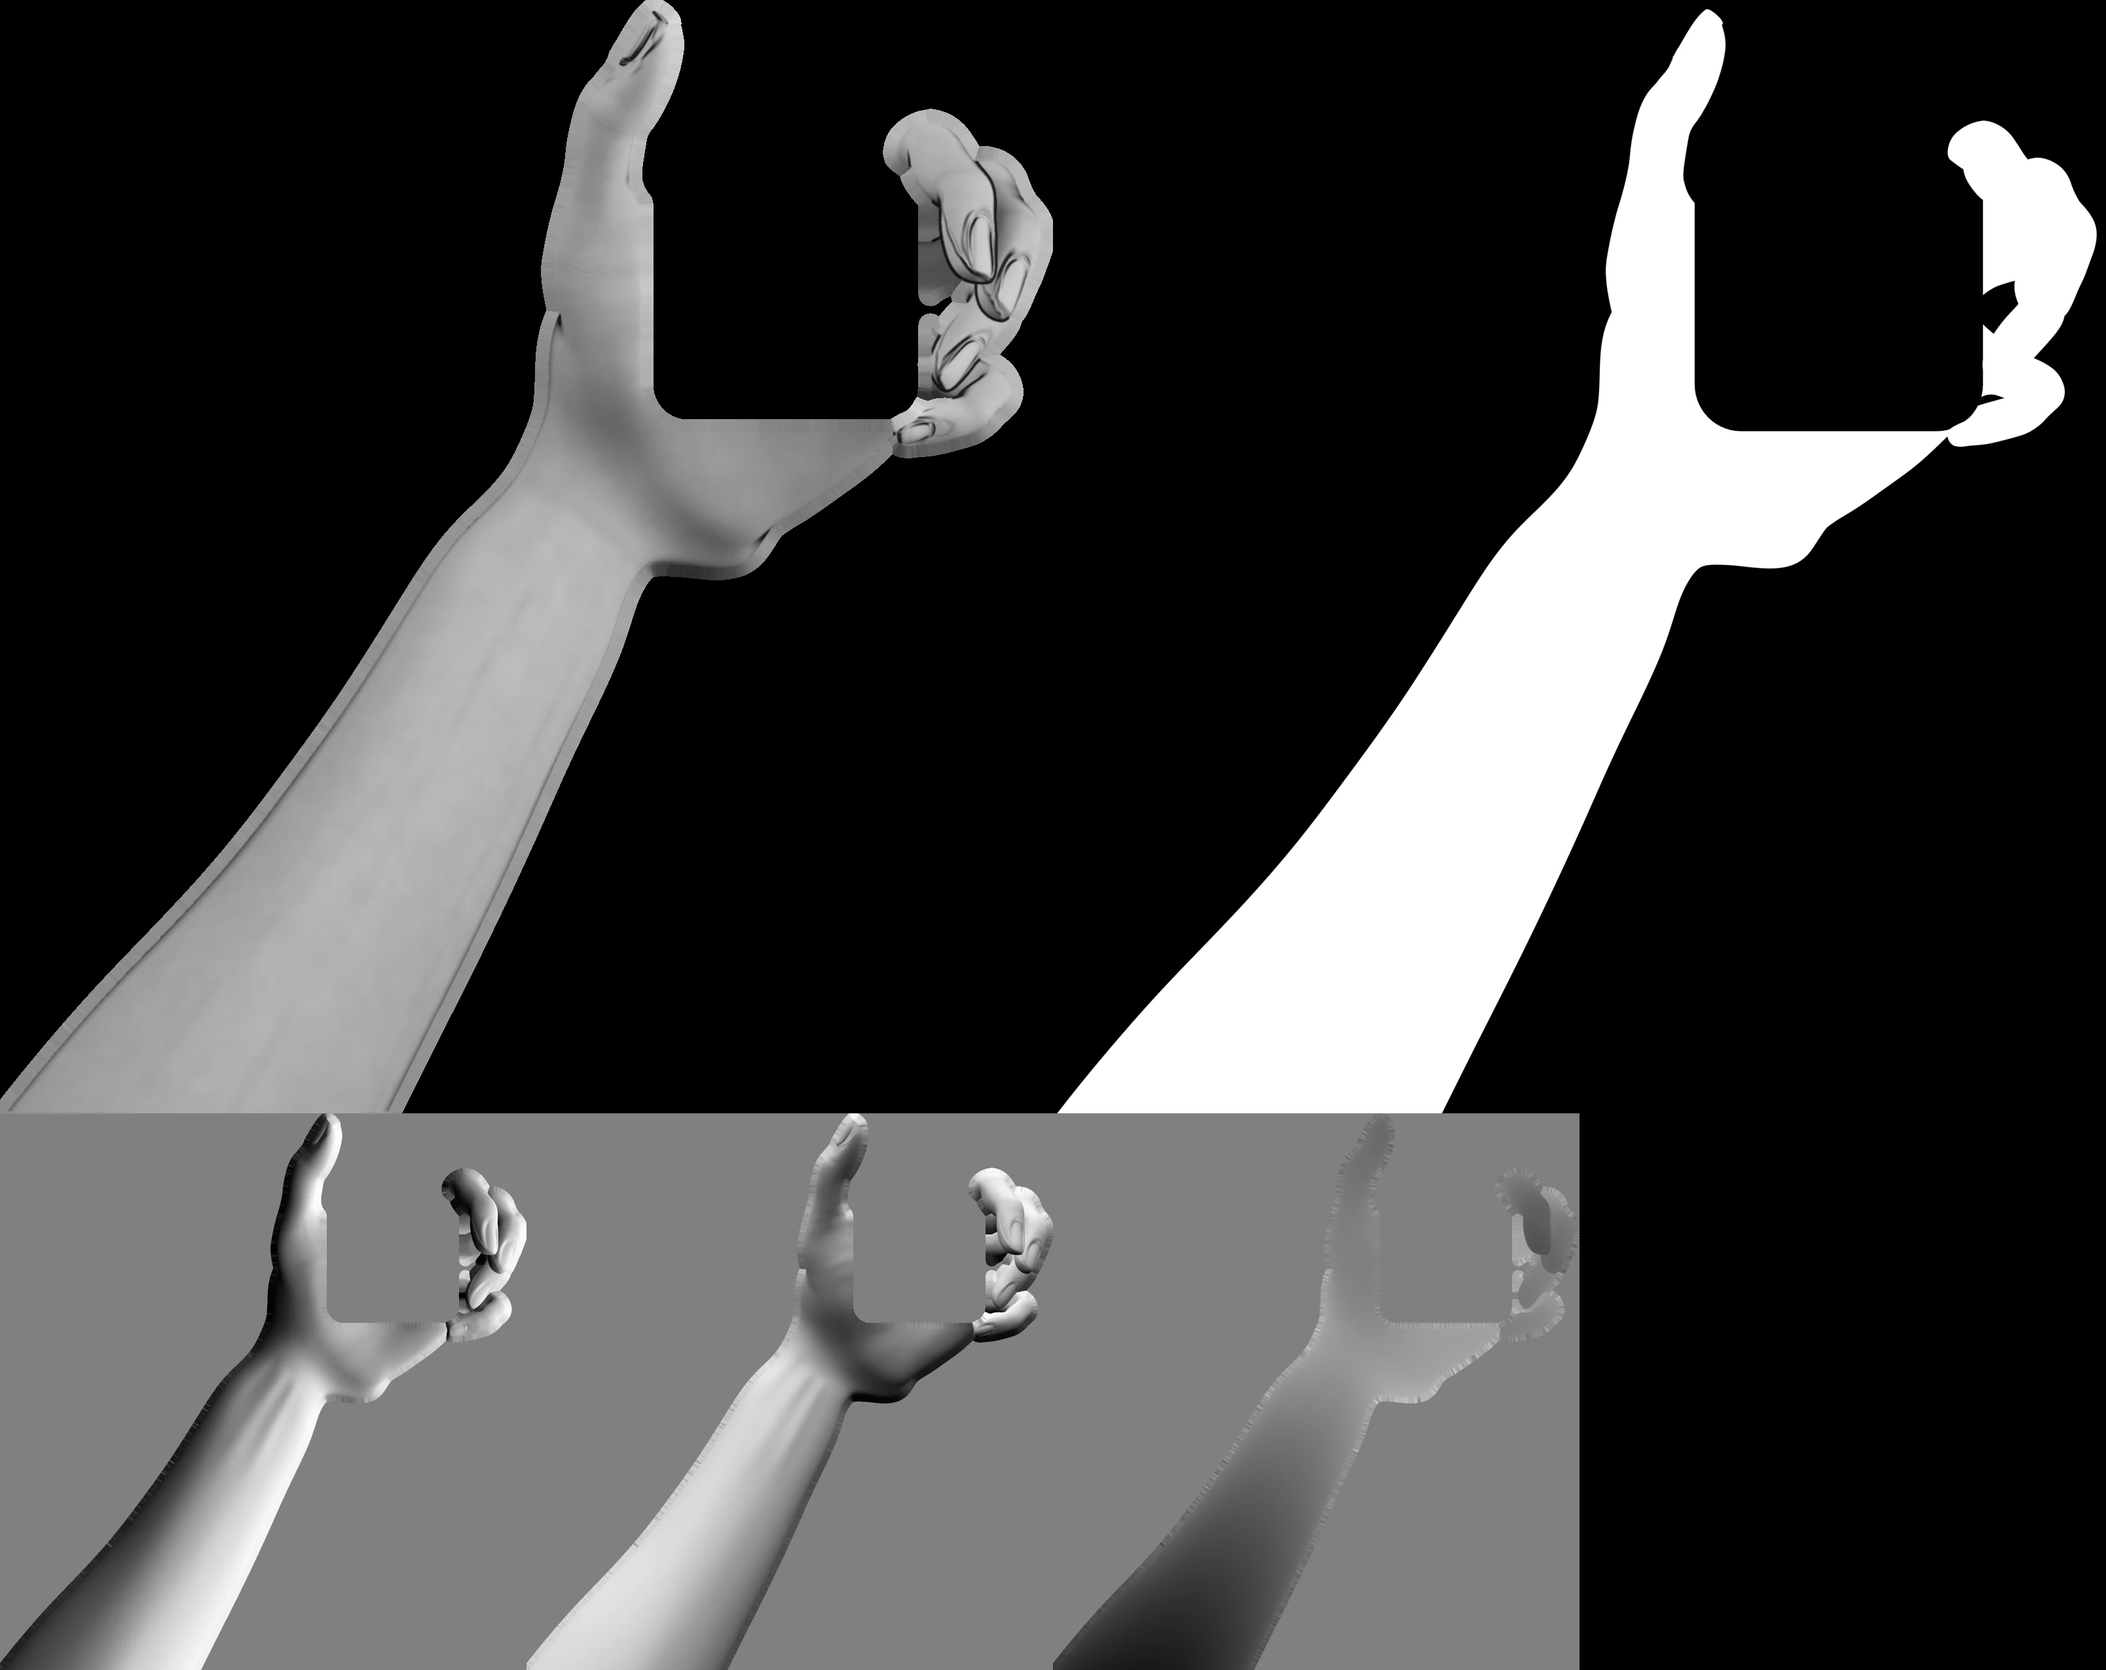
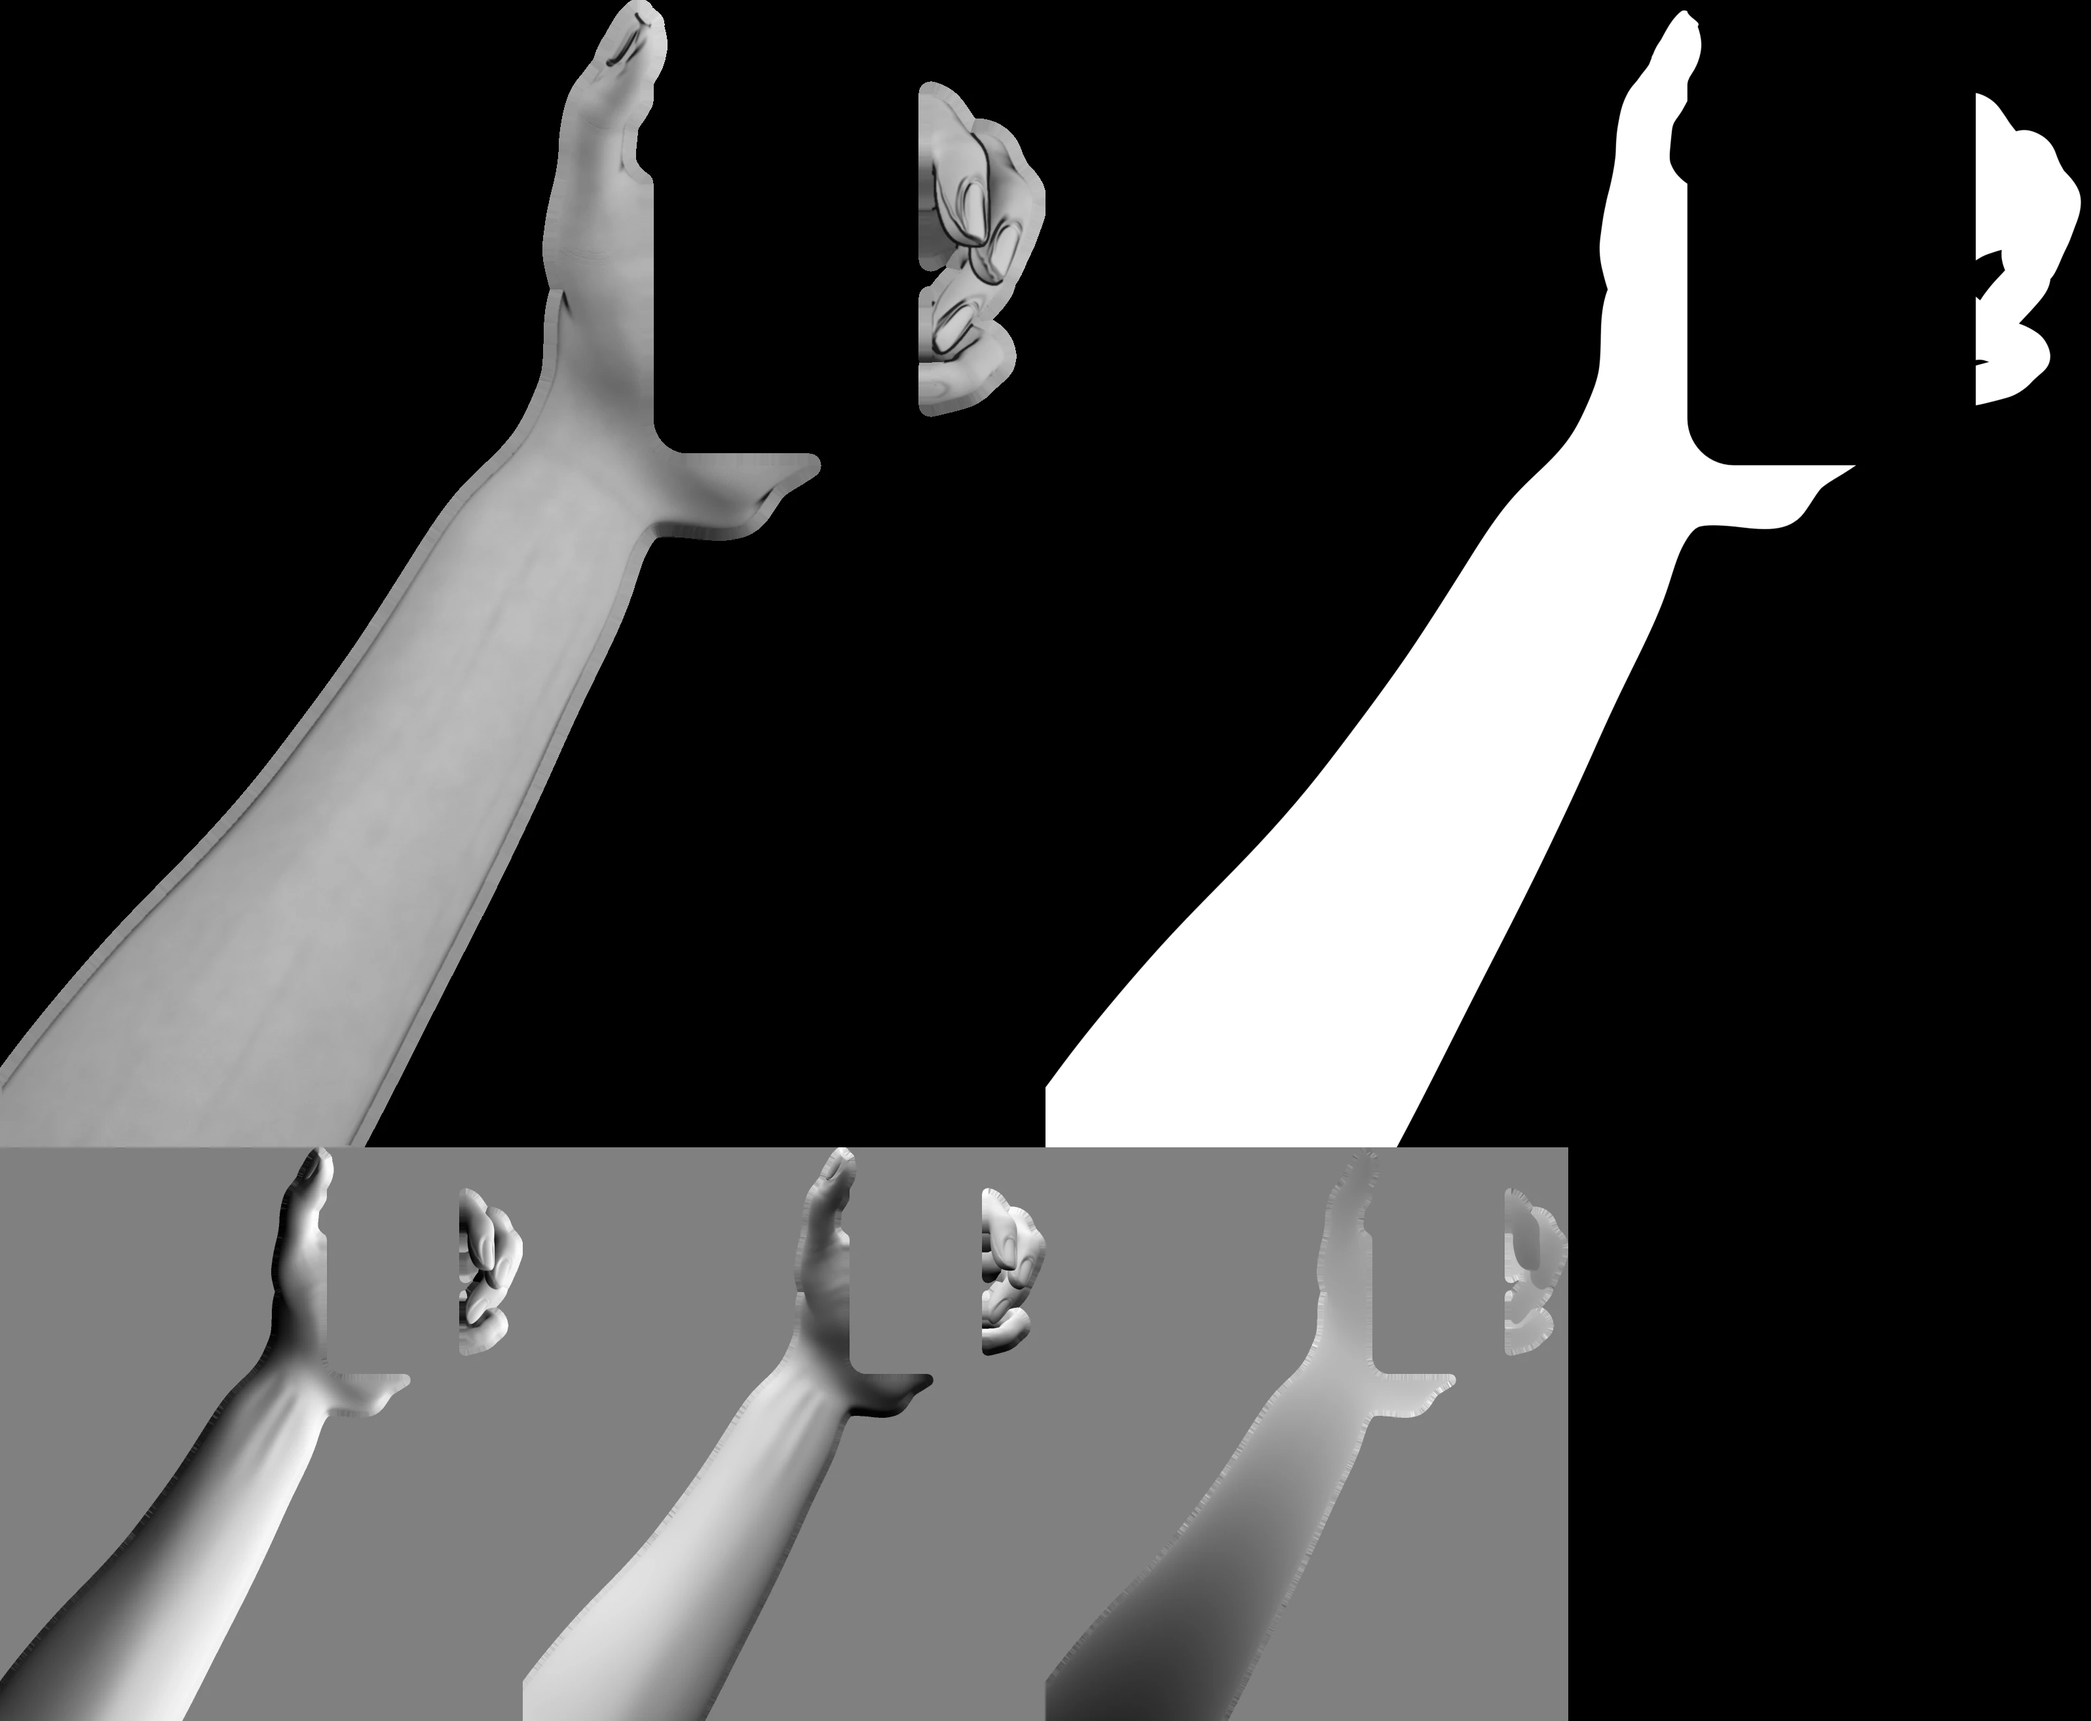
Haltehand neu gestellt nach Referenzfoto: Daumen vollständig neben der linken Kante, Hand an der Rückseite, Finger greifen um die rechte Kante ohne aufs Glas zu kippen (HAND_V 7); Daumenkuppe brennt auf dem Gehäuserand nicht mehr weiß aus

diff --git a/src/components/landing/scenes/ende/hand.js b/src/components/landing/scenes/ende/hand.js
@@ -14,7 +14,7 @@ import { qa } from '../../core/loop';
 import { istHoch } from './kamera';
 
 // Bei jedem neuen Render erhöhen: json und webp gehören zusammen und werden gemeinsam gecacht.
-const HAND_V = 6;
+const HAND_V = 7;
 const STEP = 1.25; // Zellgröße in Bühnen-px (fein: Halbton liest als Haut, nicht als Raster)
 const GAM = 0.85;
 const CON = 1.05;
@@ -167,6 +167,8 @@ vec2 holdTone(vec2 C){
     float ti = vd * cov * (1. - ss((-sdS - ri) / 7.));
     tone = mix(tone, ti, gk);
   }
+  // Gehäuserand (zwischen Glas und Außenkante): Daumenkuppe nicht als weiße Fläche ausbrennen
+  if (front && sdf < 0. && sdS > 0.) tone = min(tone, .5);
   return vec2(tone, front ? 2. : 1.);
 }
 

diff --git a/design/HAND.md b/design/HAND.md
@@ -4,6 +4,10 @@ Stand 2026-10-07. Die beiden Kapsel-Hände der Engine (Handy-Hand `holdBack`/`ho
 
 Referenz-Umsetzung (läuft, Screenshots bei 1440 × 900 und 390 × 844 geprüft): `/Users/abu/Company/archiv/hand/scripts/preview.html` (Aufruf: Ordner `archiv/hand` mit `python3 -m http.server`, dann `/scripts/preview.html` mit `?b=../final/`; Parameter `ps`, `g`, `con`, `rim`, `view`, `ascii=1`, `mx/my/px/py`), eingeklebt im Abschnitt 6.
 
+### Stand 2026-10-08, fünfte Runde (HAND_V 7): Haltehand neu gestellt nach Referenzfoto 2
+
+Rohe Farb-Renders mit Front-, Seiten- und Draufsicht (`archiv/hand/v3/ich/go.sh`, `ich/sweep.py`, `ich/r8p.py`) zeigten die Ursache: Die Daumenwurzel lag hinter dem Handy (nur die Kuppe schaute vor), und die Hand saß so weit vorn, dass die Fingerspitzen rechts um die Kante bis aufs Glas griffen. Neu (`archiv/hand/v3/ich/base740.json`): Daumen `finger1-1` −26/−6/−5 (liegt vollständig neben der linken Kante, Nagel und Gelenkfalte sichtbar), Handgelenk `wrist` 588/740 und 55 mm hinter der Referenzebene (Handfläche an der Rückseite, Finger greifen um die rechte Kante und bleiben neben dem Glas). Render `render8.py` 128 Samples, Licht `lights/v9q.json`, Pack `pack8.py --pct 98 --gain 0.76 --lgamma 1.05 --ink 0.8 --inkw 0.65` → `out/I1/pk`. Zeigehand unverändert aus Runde vier. Shader: Auf dem Gehäuserand (zwischen Glas und Außenkante) ist der Ton der vorderen Ebene auf 0,5 gedeckelt, sonst brennt die Daumenkuppe dort als weiße Fläche aus.
+
 ### Stand 2026-10-08, vierte Runde (HAND_V 6): Hände neu gestellt (Referenz: Fotos des Nutzers)
 
 Ursache der „unrealistischen“ Hände: Das Netz war nie das Problem, die Pose war es. Die Haltehand bestand aus zwei getrennt gelösten Pässen (Handfläche ohne Finger plus eine „Finger-Hand“ nur aus Kuppen), die Finger steckten senkrecht hinter dem Handy und es blieben nur abgeschnittene Kuppen. Neu: ein einziger Render der ganzen Hand, so gestellt wie im Referenzfoto (gleiche Struktur: Daumen links am Rand, vier Finger rechts um die Kante).
